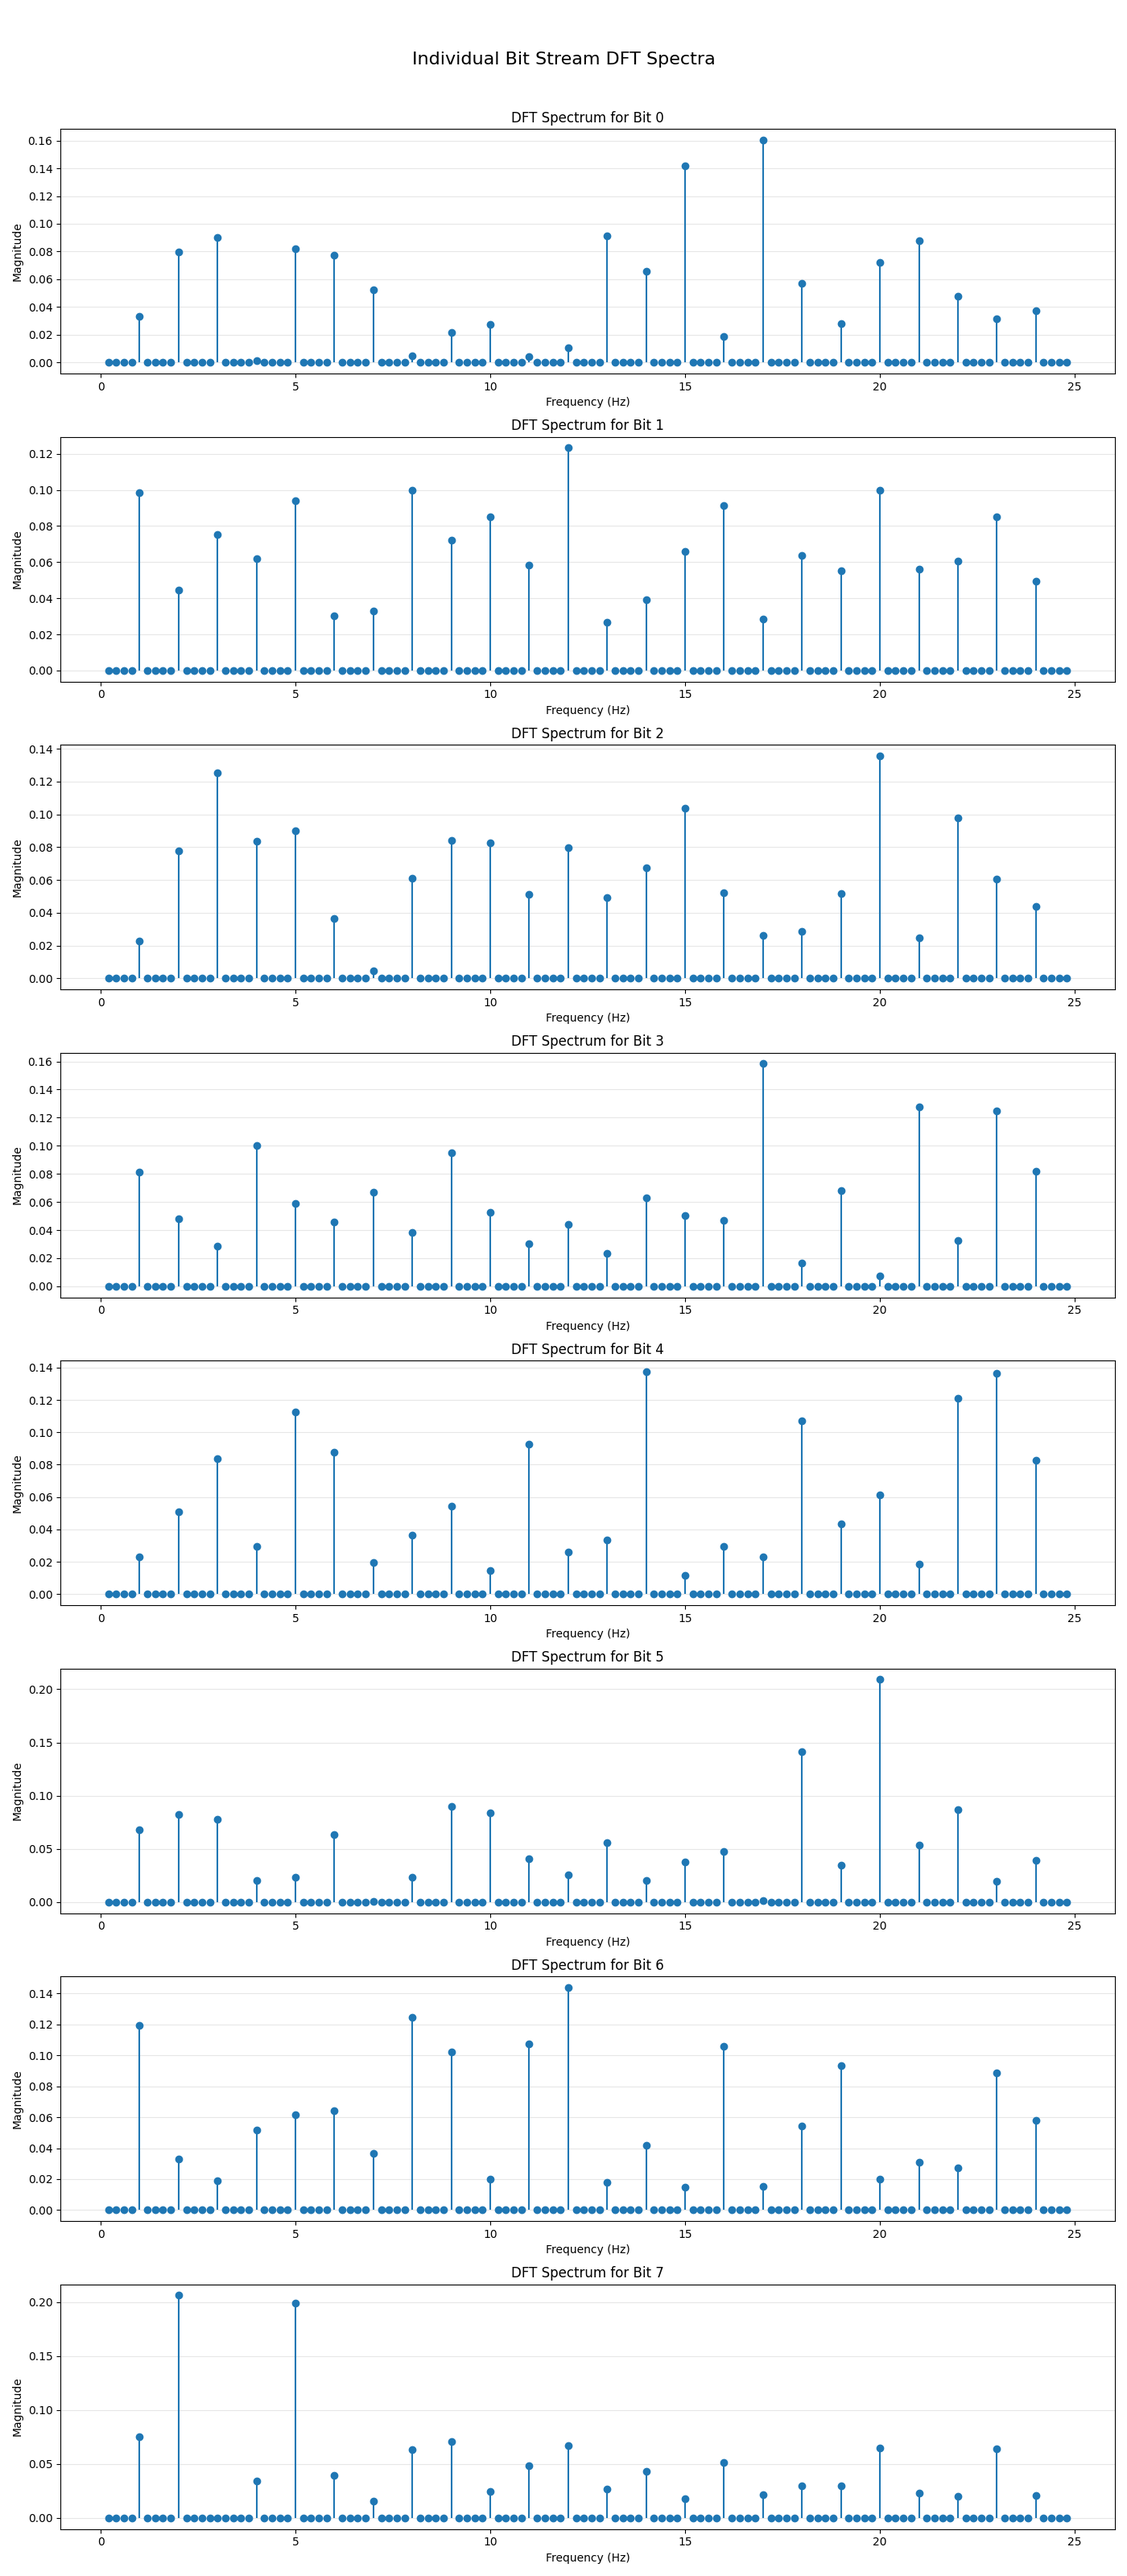
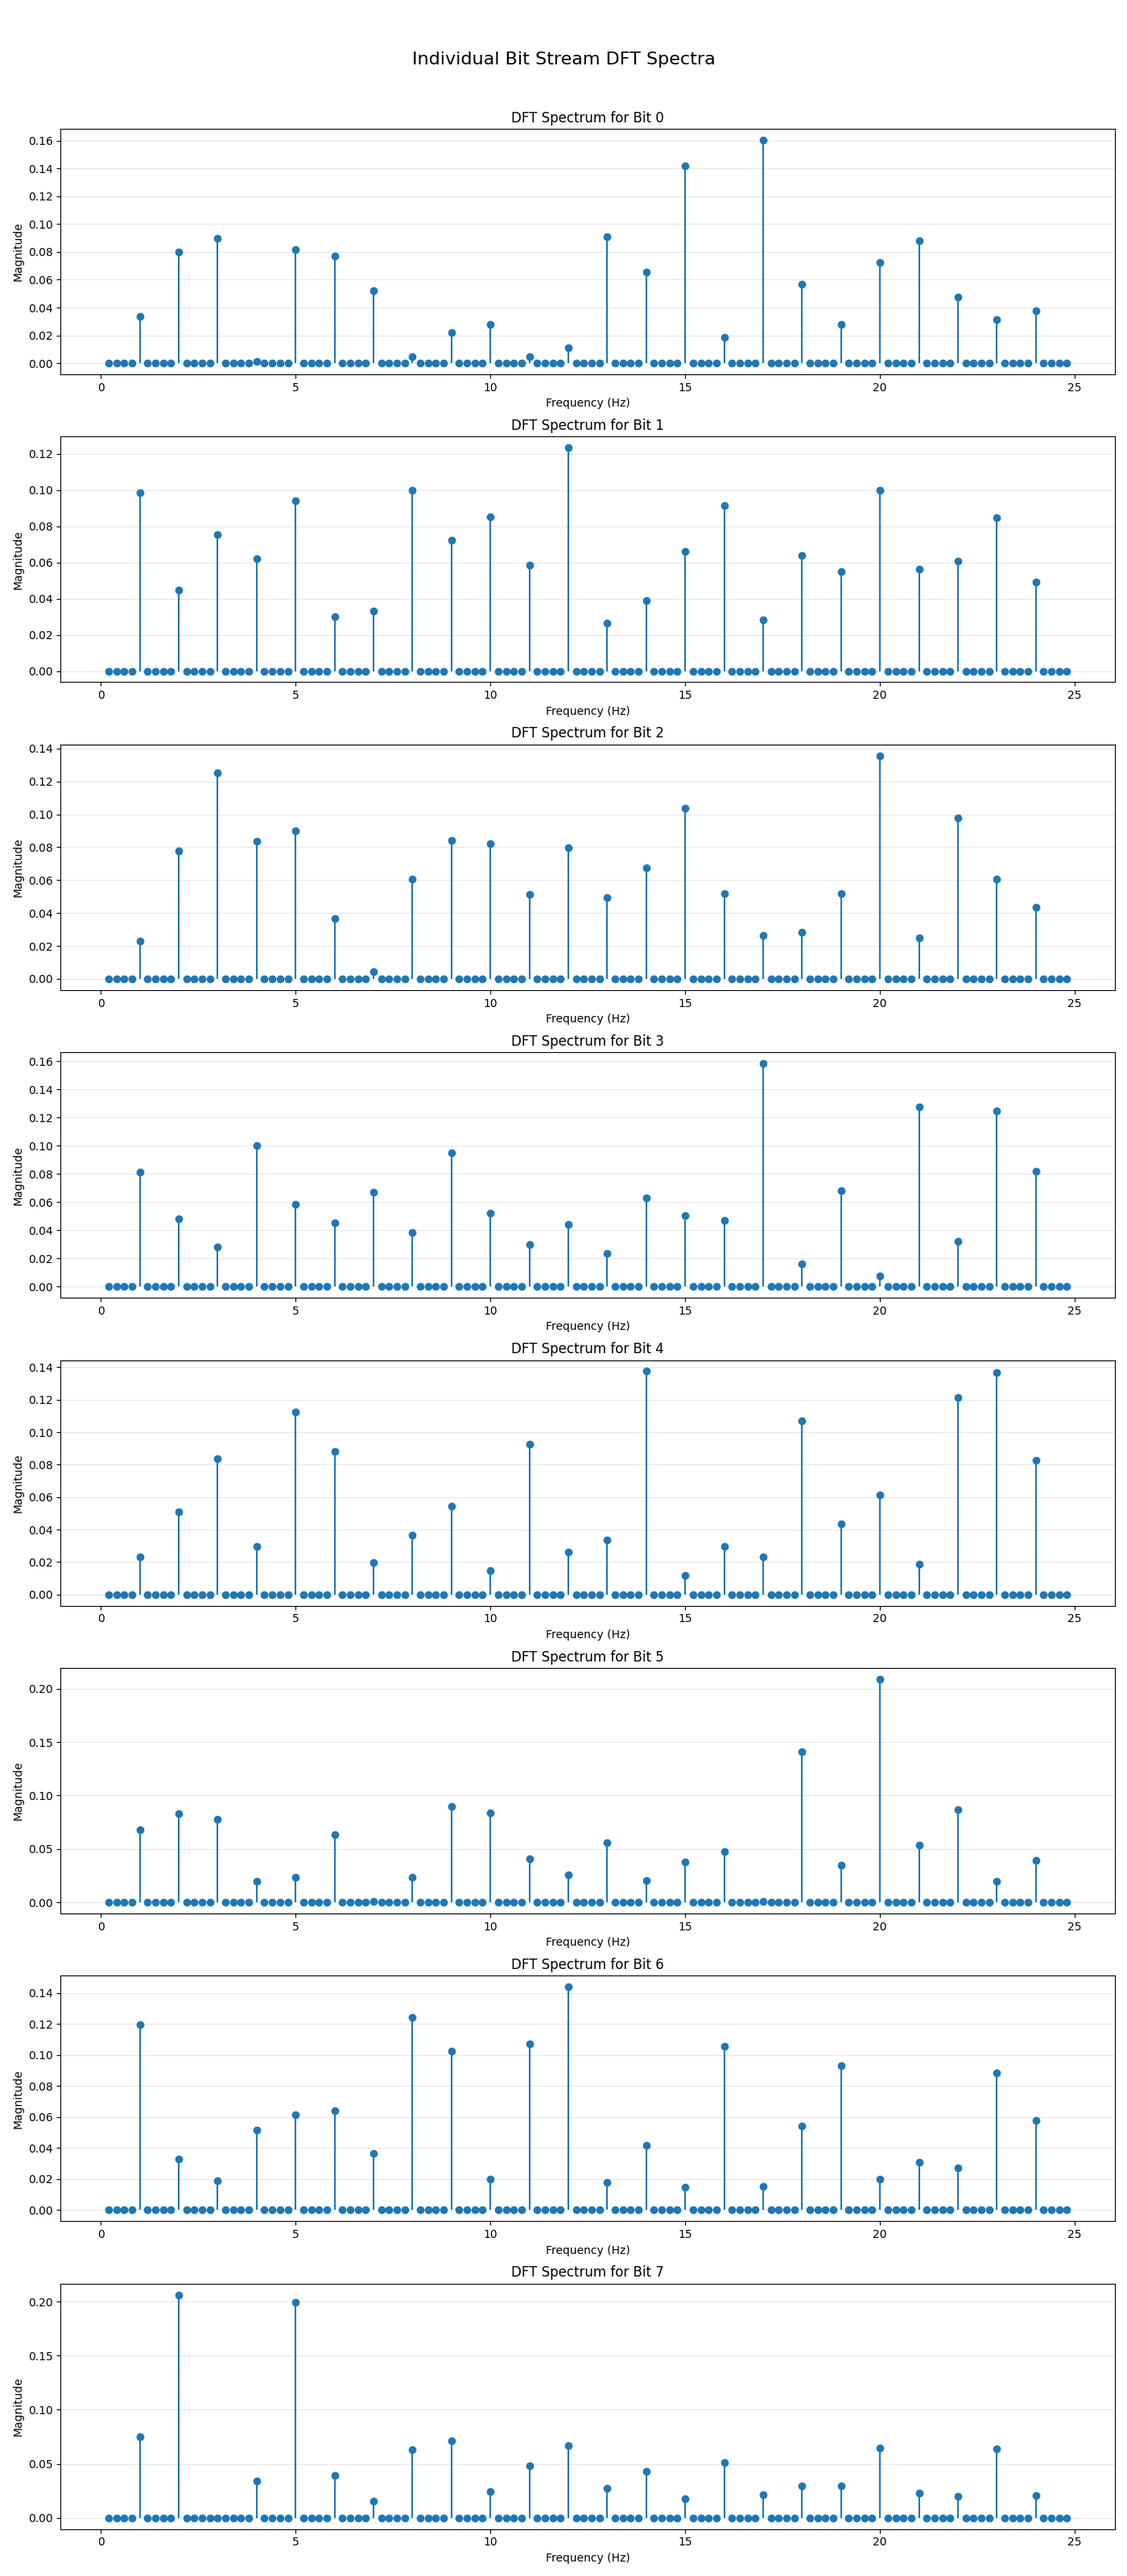
Add angular and normalized frequency spectrum visualizations
- Add Figure 3: Individual bit DFT spectra with angular frequency (×π rad/s)
- Add Figure 4: Individual bit DFT spectra with normalized frequency (×π rad/sample)
- Update Figure 1: Add angular and normalized frequency subplots (now 5 subplots total)
- Remove DC component (f=0) from all spectrum plots for better AC signal visualization
- Update README: Document all four figures and three frequency representations

Changed region(s): [[0.0, 0.4375, 0.0307, 0.4688]]

diff --git a/adc_dft_poc.py b/adc_dft_poc.py
@@ -212,14 +212,18 @@ def plot_all_analysis(samples, times, freq_bins, magnitude, frequencies_dict):
     """
     Creates and saves a comprehensive set of plots for analysis.
 
-    This function generates two separate figures for a detailed analysis:
+    This function generates four separate figures for a detailed analysis:
     1.  A figure showing the original signal, its digital bit representation
-        over time, and the overall DFT spectrum of the quantized signal.
+        over time, and the overall DFT spectrum of the quantized signal in Hz,
+        angular frequency, and normalized frequency.
     2.  A figure showing the individual DFT spectra for each bit stream of the
-        ADC output. This is useful for seeing how frequency components are
-        distributed among the bits.
+        ADC output (frequency in Hz).
+    3.  A figure showing the individual DFT spectra for each bit stream with
+        angular frequency (rad/s) on x-axis.
+    4.  A figure showing the individual DFT spectra for each bit stream with
+        normalized frequency on x-axis.
 
-    Both figures are automatically saved to PNG files.
+    All figures are automatically saved to PNG files.
 
     Args:
         samples (np.ndarray): An array of ADC samples.
@@ -228,8 +232,8 @@ def plot_all_analysis(samples, times, freq_bins, magnitude, frequencies_dict):
         magnitude (np.ndarray): The magnitude spectrum from the overall DFT.
         frequencies_dict (dict): The dictionary of input frequencies for labeling.
     """
-    # --- Figure 1: Original Signal, Bit Representation, and Overall DFT ---
-    fig1, axes1 = plt.subplots(3, 1, figsize=(14, 12))
+    # --- Figure 1: Original Signal, Bit Representation, and Overall DFT (Hz, Angular, Normalized) ---
+    fig1, axes1 = plt.subplots(5, 1, figsize=(14, 20))
 
     # Plot 1: Original ADC Signal
     axes1[0].plot(times * 1e6, samples, linewidth=0.8)
@@ -257,21 +261,53 @@ def plot_all_analysis(samples, times, freq_bins, magnitude, frequencies_dict):
     axes1[1].grid(True, alpha=0.3, axis='x')
     axes1[1].set_facecolor('#f5f5f5') # Light gray background for better readability.
 
-    # Plot 3: Overall ADC DFT Spectrum
+    # Plot 3: Overall ADC DFT Spectrum (Hz) - Exclude DC component (f=0)
     positive_freq_idx = freq_bins > 0
     freqs_positive = freq_bins[positive_freq_idx]
     mag_positive = magnitude[positive_freq_idx]
     axes1[2].stem(freqs_positive, mag_positive, basefmt=' ')
     axes1[2].set_xlabel("Frequency (Hz)")
     axes1[2].set_ylabel("Magnitude")
-    axes1[2].set_title("Overall ADC DFT Spectrum")
+    axes1[2].set_title("Overall ADC DFT Spectrum (Frequency in Hz)")
     axes1[2].grid(True, alpha=0.3, axis='y')
+
+    # Plot 4: Overall ADC DFT Spectrum (Angular Frequency) - Exclude DC component
+    # Angular frequency: ω = 2πf, range is 0 to 2π×fs (not limited to 2π!)
+    all_freq_idx = freq_bins > 0  # Exclude f=0
+    freqs_all = freq_bins[all_freq_idx]
+    mag_all = magnitude[all_freq_idx]
+    
+    angular_freqs_all = 2 * np.pi * freqs_all
+    angular_freqs_in_pi = angular_freqs_all / np.pi
+    
+    axes1[3].stem(angular_freqs_in_pi, mag_all, basefmt=' ')
+    axes1[3].set_xlabel("Angular Frequency (×π rad/s)")
+    axes1[3].set_ylabel("Magnitude")
+    axes1[3].set_title("Overall ADC DFT Spectrum (Angular Frequency)")
+    axes1[3].grid(True, alpha=0.3, axis='y')
+
+    # Plot 5: Overall ADC DFT Spectrum (Normalized Frequency) - Full spectrum 0 to 2π
+    normalized_freqs_all = 2 * np.pi * freqs_all / ADC_SAMPLING_RATE
+    # Map negative frequencies to the [π, 2π] range
+    normalized_freqs_all = np.where(normalized_freqs_all < 0, normalized_freqs_all + 2 * np.pi, normalized_freqs_all)
+    normalized_freqs_in_pi = normalized_freqs_all / np.pi
+    
+    # Sort by normalized frequency for proper display
+    sort_idx_norm = np.argsort(normalized_freqs_in_pi)
+    axes1[4].stem(normalized_freqs_in_pi[sort_idx_norm], mag_all[sort_idx_norm], basefmt=' ')
+    axes1[4].set_xlabel("Normalized Frequency (×π rad/sample)")
+    axes1[4].set_ylabel("Magnitude")
+    axes1[4].set_title("Overall ADC DFT Spectrum (Normalized Frequency)")
+    axes1[4].grid(True, alpha=0.3, axis='y')
+    axes1[4].set_xlim([0, 2])
 
     fig1.tight_layout()
     fig1.savefig('figure1_analysis.png') # Save the first figure.
 
-    # Store the x-axis limits to align the DFT plots in the second figure.
+    # Store the x-axis limits to align the DFT plots in the subsequent figures.
     dft_xlim = axes1[2].get_xlim()
+    angular_xlim = axes1[3].get_xlim()  # This is already in units of π
+    normalized_xlim = axes1[4].get_xlim()
 
     # --- Figure 2: Individual Bit Stream DFTs ---
     fig2, axes2 = plt.subplots(ADC_RESOLUTION, 1, figsize=(14, 4 * ADC_RESOLUTION))
@@ -281,14 +317,14 @@ def plot_all_analysis(samples, times, freq_bins, magnitude, frequencies_dict):
     if ADC_RESOLUTION == 1:
         axes2 = [axes2]
 
-    # Compute and plot the DFT for each individual bit stream.
+    # Compute and plot the DFT for each individual bit stream (exclude DC).
     for bit in range(ADC_RESOLUTION):
         bit_stream = bit_matrix[bit]
         # Compute DFT for the single bit stream. A windowing function is not
         # applied here to see the raw spectral content of the digital signal.
         bit_freq_bins, bit_magnitude, _ = compute_dft(bit_stream, apply_window=False)
 
-        positive_bit_freq_idx = bit_freq_bins > 0
+        positive_bit_freq_idx = bit_freq_bins > 0  # Exclude f=0
         bit_freqs_positive = bit_freq_bins[positive_bit_freq_idx]
         bit_mag_positive = bit_magnitude[positive_bit_freq_idx]
 
@@ -303,7 +339,75 @@ def plot_all_analysis(samples, times, freq_bins, magnitude, frequencies_dict):
     plt.subplots_adjust(top=0.95) # Adjust layout to make space for the suptitle.
     fig2.savefig('figure2_bit_dfts.png') # Save the second figure.
 
-    plt.show() # Display both figures.
+    # --- Figure 3: Individual Bit Stream DFTs (Angular Frequency) ---
+    fig3, axes3 = plt.subplots(ADC_RESOLUTION, 1, figsize=(14, 4 * ADC_RESOLUTION))
+    fig3.suptitle("Individual Bit Stream DFT Spectra (Angular Frequency)", fontsize=16)
+
+    # Ensure axes3 is always an array for consistent indexing, even if ADC_RESOLUTION is 1.
+    if ADC_RESOLUTION == 1:
+        axes3 = [axes3]
+
+    # Compute and plot the DFT for each individual bit stream (angular frequency, exclude DC).
+    for bit in range(ADC_RESOLUTION):
+        bit_stream = bit_matrix[bit]
+        bit_freq_bins, bit_magnitude, _ = compute_dft(bit_stream, apply_window=False)
+
+        # Exclude DC component (f=0)
+        all_bit_freq_idx = bit_freq_bins > 0
+        bit_freqs_all = bit_freq_bins[all_bit_freq_idx]
+        bit_mag_all = bit_magnitude[all_bit_freq_idx]
+        
+        bit_angular_freqs_all = 2 * np.pi * bit_freqs_all
+        bit_angular_freqs_in_pi = bit_angular_freqs_all / np.pi
+        
+        axes3[bit].stem(bit_angular_freqs_in_pi, bit_mag_all, basefmt=' ')
+        axes3[bit].set_xlabel("Angular Frequency (×π rad/s)")
+        axes3[bit].set_ylabel("Magnitude")
+        axes3[bit].set_title(f"DFT Spectrum for Bit {bit} (Angular Frequency)")
+        axes3[bit].grid(True, alpha=0.3, axis='y')
+        axes3[bit].set_xlim(angular_xlim) # Align x-axis with the overall DFT plot for comparison.
+
+    fig3.tight_layout()
+    plt.subplots_adjust(top=0.95) # Adjust layout to make space for the suptitle.
+    fig3.savefig('figure3_bit_dfts_angular.png') # Save the third figure.
+
+    # --- Figure 4: Individual Bit Stream DFTs (Normalized Frequency) ---
+    fig4, axes4 = plt.subplots(ADC_RESOLUTION, 1, figsize=(14, 4 * ADC_RESOLUTION))
+    fig4.suptitle("Individual Bit Stream DFT Spectra (Normalized Frequency)", fontsize=16)
+
+    # Ensure axes4 is always an array for consistent indexing, even if ADC_RESOLUTION is 1.
+    if ADC_RESOLUTION == 1:
+        axes4 = [axes4]
+
+    # Compute and plot the DFT for each individual bit stream (normalized frequency, exclude DC).
+    for bit in range(ADC_RESOLUTION):
+        bit_stream = bit_matrix[bit]
+        bit_freq_bins, bit_magnitude, _ = compute_dft(bit_stream, apply_window=False)
+
+        # Exclude DC component (f=0)
+        all_bit_freq_idx = bit_freq_bins > 0
+        bit_freqs_all = bit_freq_bins[all_bit_freq_idx]
+        bit_mag_all = bit_magnitude[all_bit_freq_idx]
+        
+        bit_normalized_freqs_all = 2 * np.pi * bit_freqs_all / ADC_SAMPLING_RATE
+        # Map negative frequencies to the [π, 2π] range
+        bit_normalized_freqs_all = np.where(bit_normalized_freqs_all < 0, bit_normalized_freqs_all + 2 * np.pi, bit_normalized_freqs_all)
+        bit_normalized_freqs_in_pi = bit_normalized_freqs_all / np.pi
+        
+        # Sort by normalized frequency for proper display
+        bit_sort_idx_norm = np.argsort(bit_normalized_freqs_in_pi)
+        axes4[bit].stem(bit_normalized_freqs_in_pi[bit_sort_idx_norm], bit_mag_all[bit_sort_idx_norm], basefmt=' ')
+        axes4[bit].set_xlabel("Normalized Frequency (×π rad/sample)")
+        axes4[bit].set_ylabel("Magnitude")
+        axes4[bit].set_title(f"DFT Spectrum for Bit {bit} (Normalized Frequency)")
+        axes4[bit].grid(True, alpha=0.3, axis='y')
+        axes4[bit].set_xlim(normalized_xlim) # Align x-axis with the overall DFT plot for comparison.
+
+    fig4.tight_layout()
+    plt.subplots_adjust(top=0.95) # Adjust layout to make space for the suptitle.
+    fig4.savefig('figure4_bit_dfts_normalized.png') # Save the fourth figure.
+
+    plt.show() # Display all figures.
 
 
 if __name__ == "__main__":

diff --git a/README.md b/README.md
@@ -58,22 +58,47 @@ if __name__ == "__main__":
 
 ## Output Analysis
 
-The script produces two main output figures, which are displayed on the screen and also saved as PNG files in the project directory.
+The script produces four main output figures, which are displayed on the screen and also saved as PNG files in the project directory. All frequency spectra exclude the DC component (f=0) for better visualization of AC signal components.
 
 ### Figure 1: `figure1_analysis.png`
 
-This figure provides an overall analysis of the ADC signal.
+This figure provides a comprehensive overall analysis of the ADC signal with five subplots:
 
 1.  **Original ADC Signal**: A plot of the quantized ADC values over time. This shows the final digital waveform.
 2.  **Digital Bit Representation**: A plot showing the state (0 or 1) of each individual bit of the ADC over time. This is useful for visualizing how the bits toggle in response to the analog signal.
-3.  **Overall ADC DFT Spectrum**: A frequency spectrum plot of the complete ADC signal. This shows the main frequency components present in the digitized signal.
+3.  **Overall ADC DFT Spectrum (Hz)**: A frequency spectrum plot in Hertz, showing the main frequency components present in the digitized signal.
+4.  **Overall ADC DFT Spectrum (Angular Frequency)**: The same spectrum displayed in angular frequency (×π rad/s). This representation is useful for continuous-time analysis.
+5.  **Overall ADC DFT Spectrum (Normalized Frequency)**: The spectrum in normalized angular frequency (×π rad/sample). This representation ranges from 0 to 2π and is sampling-rate independent, making it ideal for digital filter design.
 
 ![Figure 1 Analysis](figure1_analysis.png)
 
 ### Figure 2: `figure2_bit_dfts.png`
 
-This figure provides a DFT analysis for each individual bit stream of the ADC output. For an 8-bit ADC, it will contain 8 separate plots (from Bit 0 to Bit 7).
+This figure provides a DFT analysis for each individual bit stream of the ADC output, with frequency displayed in Hz. For an 8-bit ADC, it will contain 8 separate plots (from Bit 0 to Bit 7).
 
 Each plot shows the frequency spectrum of a single bit's digital stream. This is a powerful tool for understanding which frequencies have the most significant impact on each bit. For example, you might find that lower-frequency components are more prominent in the most significant bits (MSBs), while higher-frequency components affect the least significant bits (LSBs).
 
 ![Figure 2 Bit DFTs](figure2_bit_dfts.png)
+
+### Figure 3: `figure3_bit_dfts_angular.png`
+
+This figure shows the same individual bit stream DFT analysis as Figure 2, but with the x-axis displayed in **angular frequency (×π rad/s)**. This representation is useful for understanding the signal behavior in continuous-time angular frequency terms.
+
+![Figure 3 Bit DFTs Angular](figure3_bit_dfts_angular.png)
+
+### Figure 4: `figure4_bit_dfts_normalized.png`
+
+This figure displays the individual bit stream DFT spectra with the x-axis in **normalized angular frequency (×π rad/sample)**. The frequency range spans from 0 to 2π rad/sample, making it sampling-rate independent. This representation is particularly valuable for:
+- Digital filter design
+- Comparing signals across different sampling rates
+- Understanding the discrete-time frequency content
+
+![Figure 4 Bit DFTs Normalized](figure4_bit_dfts_normalized.png)
+
+## Frequency Representations
+
+The script provides three different frequency representations to suit various analysis needs:
+
+- **Frequency (Hz)**: Standard frequency in cycles per second. Range: 0 to fs/2 (Nyquist frequency).
+- **Angular Frequency (rad/s)**: ω = 2πf. Range: 0 to π×fs rad/s. Useful for continuous-time system analysis.
+- **Normalized Frequency (rad/sample)**: ω̂ = 2πf/fs. Range: 0 to 2π rad/sample. Sampling-rate independent, essential for discrete-time signal processing and filter design.
